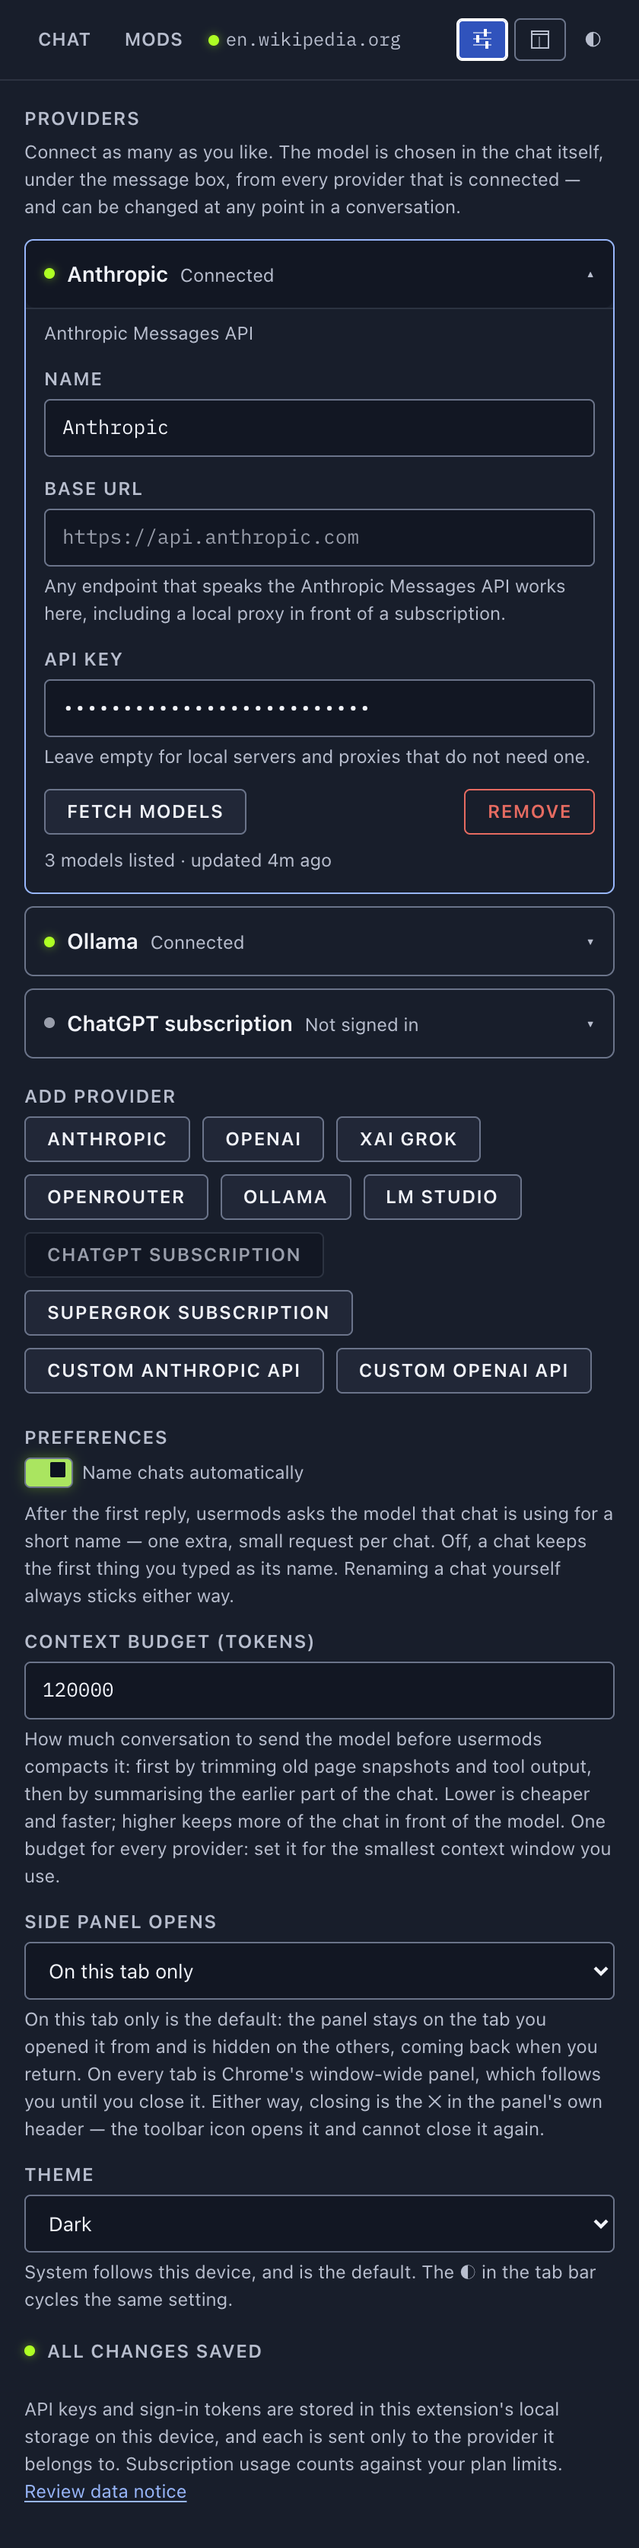
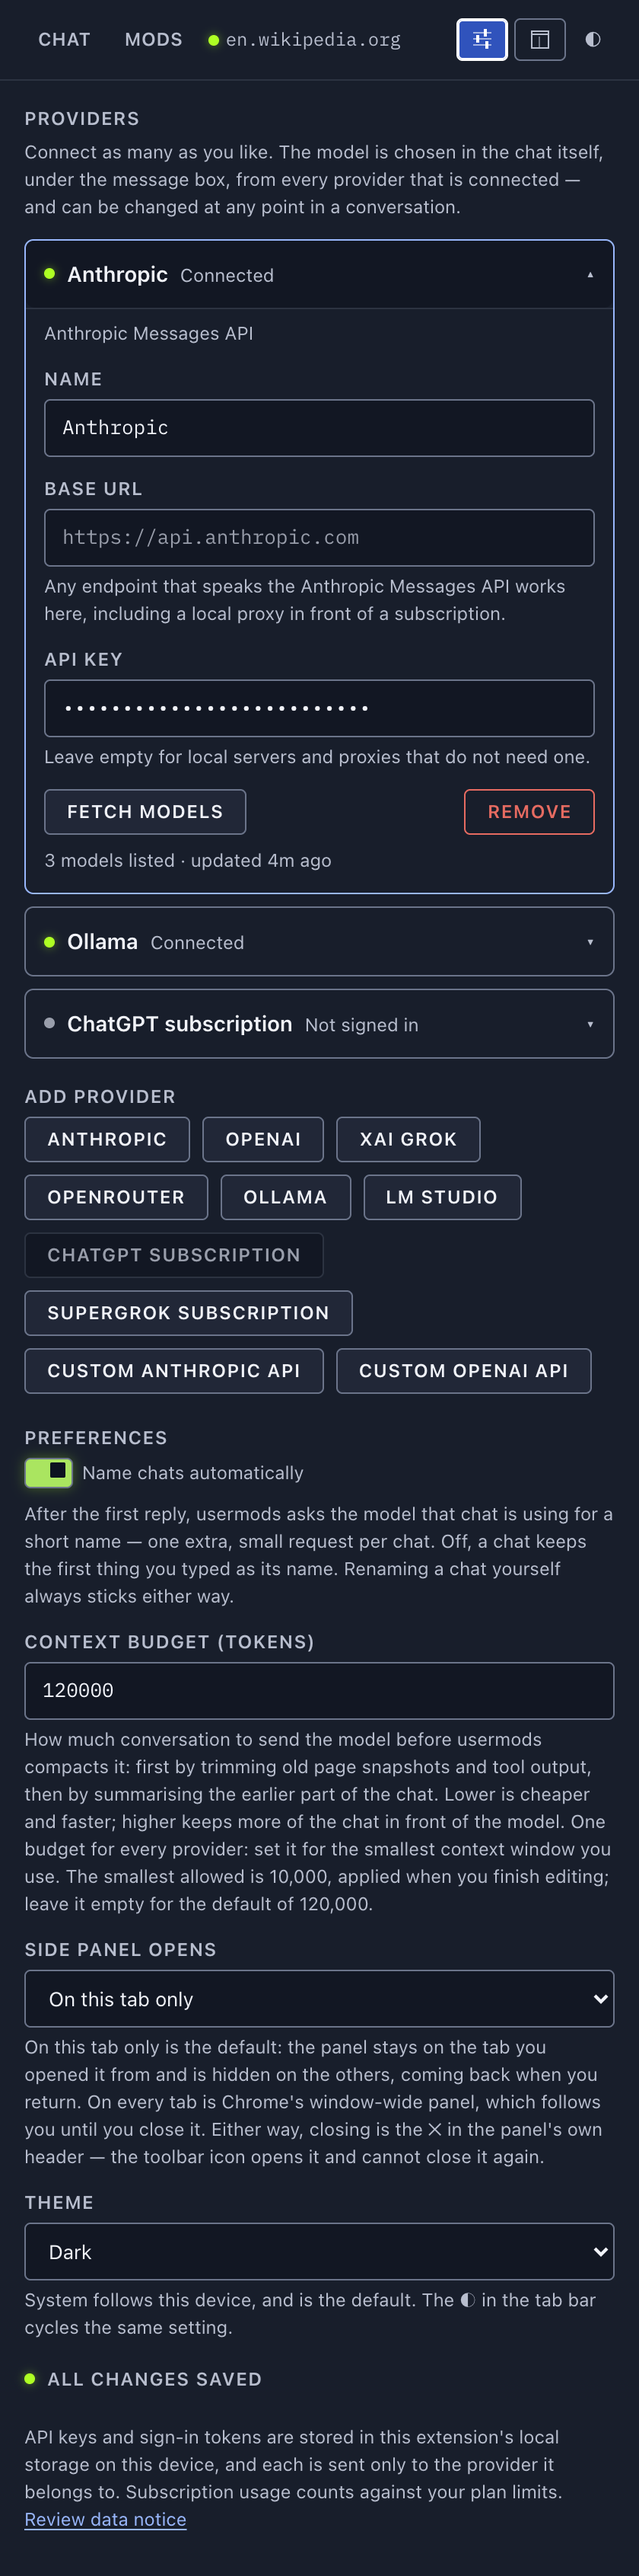
docs: changelog and QA steps for the three user reports
CHANGELOG gains an Unreleased "Fixed, from user reports on the Chrome
build" section covering all three, in the user's own words, and states
that no permission was added and the Chrome manifest is unchanged.

docs/qa-checklist.md gains section 4c: a long session. The mechanisms are
covered by npm test and npm run smoke, but "it breaks in long sessions"
was reported from a real hour in a real profile, which is what this
section is for — deleting a chat mid-run and confirming it stays gone
after a reload and a revisit, typing into the context budget field one
key at a time, a small-window model compacting instead of failing, and
watching getBytesInUse climb ~1.5 MB per attached image toward the 10 MB
cap. Four rows added to the pass/fail table.

The two settings captures are regenerated: that screen's help text now
names the floor and the default. hero-github.png is untouched.

diff --git a/entrypoints/background.ts b/entrypoints/background.ts
@@ -611,10 +611,6 @@ async function runChat(chatId: string, tabId: number, turn: UserTurn | null): Pr
     // going on screen and stopped existing on disk. It still does not fail the turn; it now says so.
     if ((await saveMessages(chatId, messages)) === 'quota') post({ type: 'note', text: QUOTA_PANEL_NOTE });
     await touchChat(chatId, { url, turns: countTurns(messages) });
-    // Blobs whose transcript rows are gone (compaction, an unqueued message, a rollback) were
-    // leaking for the life of the chat: pruneBlobs existed and nothing called it. At ~1.5 MB of a
-    // 10 MB quota per image, that is a large share of why long sessions run out of room.
-    void collectBlobs(chatId, await loadItems(chatId)).catch(() => 0);
     void warnIfStorageLow(post);
     if (outcome.failure) failed = outcome.failure.message;
     succeeded = !signal.aborted && !outcome.failure;
@@ -955,8 +951,24 @@ async function handleRpc(req: RpcRequest): Promise<unknown> {
       return listChats(req.host);
     case 'chats.listAll':
       return listChats();
-    case 'chats.transcript':
-      return loadItems(req.id);
+    case 'chats.transcript': {
+      const items = await loadItems(req.id);
+      // Collect this chat's orphaned blobs here, and ONLY here, because this is the one moment the
+      // stored transcript is authoritative. It cannot be done after a turn: the panel owns
+      // 'chat:<id>:items' and writes it on a 400ms debounce, so a read taken right after a run
+      // finishes does not yet mention the image that run just attached — and collecting against
+      // that stale copy deletes a live blob (the images smoke flow catches exactly this).
+      //
+      // Opening a chat is the right cadence anyway. Nothing is mid-write, an orphan costs only
+      // space until the next open, and the user is not waiting on the result: it is fire-and-forget
+      // while the transcript it was computed from is already on its way back.
+      //
+      // A never-reopened chat keeps its orphans, which is the honest limit of doing it here. Its
+      // keys still go together when the chat is deleted or evicted (chatKeys), so nothing leaks
+      // past the chat's own life.
+      if (items.length) void collectBlobs(req.id, items).catch(() => 0);
+      return items;
+    }
     case 'chats.create':
       return createChat(req.host, req.model);
     case 'chats.setModel':

diff --git a/docs/qa-checklist.md b/docs/qa-checklist.md
@@ -291,6 +291,79 @@ ways — by reading `chrome.sidePanel.getOptions()`. Two things are left to you 
 
 ---
 
+## 4c. A long session: deletion that sticks, storage, and a small context window
+
+Three user reports from the Chrome build land here. Automation covers the mechanisms (`npm test`
+races a delete against a live index write, and drives a provider that refuses an over-long
+history), but it cannot spend a real hour in a real profile against a real backend — which is what
+"it breaks in long sessions" was reported from.
+
+Budget about 25 minutes. Keep the **service worker console** open throughout; it is where a storage
+failure would have gone unseen before.
+
+1. **A delete during a run.** On a busy page, send a request that will take several tool calls
+   ("go through every heading on this page and tell me what each one does"). While it is still
+   running — the activity line ticking — open the chat switcher and **Delete** that chat.
+   **Expected:** the confirm names the chat; it disappears; the panel falls back to another chat or
+   the empty composer. No error in the panel.
+   **Then:** wait ten seconds for the run to finish dying, close and reopen the side panel, and
+   navigate away and back to that site.
+   **Expected:** the chat is still gone. It does not reappear in the switcher, and reopening the
+   panel on that site does not restore it. **This is the bug that was reported** — a deleted chat
+   returning after a reload or a revisit.
+   **If it fails:** service worker console, and in the panel's DevTools run
+   `chrome.storage.local.get('chats').then(r => console.log(r.chats.map(c => c.id + ' ' + c.title)))`
+   — if the chat is listed there, copy that line.
+2. **A delete right after a turn.** Send a short message, wait for the reply to finish, and delete
+   the chat within a second or two of it completing.
+   **Expected:** same as above, and additionally, in the panel's DevTools:
+   `chrome.storage.local.get(null).then(r => console.log(Object.keys(r).filter(k => k.startsWith('chat:'))))`
+   lists no `chat:<that id>:messages`, `:items`, `:blobs` or `:artifact` key.
+   **If it fails:** copy that key list.
+3. **Bulk delete from the dashboard.** Open the dashboard, select several chats, delete them, then
+   reload the dashboard and reopen the panel on one of those sites.
+   **Expected:** all of them stay gone.
+4. **The context budget field.** Settings → **Context budget (tokens)**. Select the whole field and
+   type `50000`, one key at a time, watching the field.
+   **Expected:** it reads `5`, `50`, `500`, `5000`, `50000` as you type. It must **not** jump to
+   `10000` at any point. **This is the bug that was reported.**
+   Then: type `500` and press Tab. **Expected:** it becomes `10000` — the floor, applied once you
+   are done. Type `8000` and press Enter: same. Clear the field entirely and Tab out:
+   **Expected:** `120000`, the default. Type `64000`, and without leaving the field close the side
+   panel and reopen Settings: **Expected:** `64000` was saved.
+   **If it fails:** side panel DevTools.
+5. **A model with a small context window.** Add a connection to a local or hosted model with a small
+   window (anything 8k–32k; a small Ollama or LM Studio model is ideal). Leave the context budget at
+   its 120,000 default. Have a long conversation on a dense page — ten or more turns with several
+   page reads each — until the history is clearly large.
+   **Expected:** when the conversation outgrows that model's window, the turn does **not** fail. A
+   note appears saying the model's context window is smaller than the budget and that usermods
+   compacted and is sending it again, a compaction line appears, and the reply arrives.
+   **Then:** send another message.
+   **Expected:** the second turn does not repeat the failure — the smaller budget was remembered, so
+   it compacts up front rather than being refused first.
+   **If it fails:** service worker console; copy the provider's exact 400 body, which is what the
+   classifier reads.
+6. **Storage.** In the panel's DevTools, check usage at any point with
+   `chrome.storage.local.getBytesInUse(null).then(b => console.log((b/1048576).toFixed(2) + ' MB of 10 MB'))`.
+   Attach four images (the composer's limit) across a few messages in one chat and check again.
+   **Expected:** usage climbs by roughly 1.5 MB per full-size image. This is the headroom problem:
+   the cap is 10 MB.
+   **Then:** keep going until usage passes 8 MB.
+   **Expected:** a note appears once saying storage is N% full and to delete old chats in the
+   dashboard. It appears once, not on every turn.
+   **Then, if you can reach the cap:** keep attaching until a save is actually refused.
+   **Expected:** a note saying the chat is no longer being saved and what to do about it — not
+   silence. Before this fix, the conversation carried on on screen and quietly stopped being
+   written.
+   **If it fails:** service worker console.
+7. **Attached images are cleaned up.** In a chat with attachments, note the blob store's size:
+   `chrome.storage.local.get(null).then(r => { const k = Object.keys(r).find(k => k.endsWith(':blobs')); console.log(k, JSON.stringify(r[k]).length); })`.
+   Delete that chat, then check that no `:blobs` key for it remains.
+   **Expected:** gone with the chat.
+
+---
+
 ## 4b. Edit an installed mod in chat (including an imported one)
 
 The half of this that automation cannot reach is the real user-scripts world: the smoke flow runs in
@@ -825,6 +898,10 @@ OpenAI-compatible endpoint, and a ChatGPT sign-in as the third if you have one.
 | 3a | Lost connection retries, Resume, interrupted run | | |
 | 4 | Chat persistence: reload, restart, second chat | | |
 | 4a | Side panel: this tab only, every tab, dashboard Open | | |
+| 4c | Delete during a run stays deleted after reload and revisit | | |
+| 4c | Context budget field takes every digit; floor applies on blur/Enter | | |
+| 4c | Small context window: one compaction, then remembered | | |
+| 4c | Storage: warning at 80%, a refused save says so, blobs go with the chat | | |
 | 4b | Edit an installed mod in chat (imported, round trip, detach, duplicate) | | |
 | 5 | Install from Greasy Fork `.user.js` link | | |
 | 6 | `@require` + `GM_setValue`/`GM_getValue` sync (2 tabs) | | |

diff --git a/CHANGELOG.md b/CHANGELOG.md
@@ -6,6 +6,44 @@ All notable changes to usermods are recorded here. The format follows
 
 ## [Unreleased]
 
+### Fixed, from user reports on the Chrome build
+
+- **A deleted chat could come back.** Reported as "deleting it does nothing. It shows up again if I
+  reopen the window later or visit the site?" The chat index was written by nine separate
+  read-modify-write cycles over one storage key, none of them serialised. A delete that raced a
+  background turn's activity write, or a proposal being noted on the index, was overwritten by a
+  snapshot taken before the delete — putting the chat back, pointing at per-chat keys the delete had
+  already removed. Separately, the panel's debounced transcript save and the background's
+  detached-run writer could recreate a deleted chat's transcript after the fact. Every index writer
+  now goes through one per-key queue, a delete wins over writes that were already in flight for that
+  chat, and the panel drops its pending writes for a chat it is deleting rather than flushing them.
+  Chat deletion, single and bulk, is the same as before from the outside; it now sticks.
+- **The context budget field fought you while you typed it.** Reported as "You have a minimum default
+  but when I'm editing, it enforces it so it's a bit tricky for me to change the context window
+  limit." Settings applied the 10,000-token floor on every keystroke, so typing `50000` began with
+  `5`, which became `10000` under the cursor. The floor is unchanged and now applies once, when you
+  leave the field or press Enter. Escape abandons what you typed; an empty field asks for the
+  default back; a number typed and then left by closing the panel is still saved. The help text
+  names both the floor and the default.
+- **A model with a small context window no longer ends the run.** Part of "it breaks in long
+  sessions". The context budget is one number for every provider and defaults to 120,000 tokens,
+  while compaction first runs at 70% of it — so a model with a 32k window was refused by its own
+  provider long before anything shrank the conversation, and the turn died. usermods now recognises
+  that refusal (across the phrasings OpenAI, Azure, Anthropic, llama.cpp, Ollama, vLLM, TGI and
+  Gemini-compatible endpoints send), compacts the conversation, sends it once more, says so in the
+  chat, and remembers a budget that fits for that connection and model so the next turn starts from
+  it. Token rate limits and reply-length errors are deliberately not treated this way.
+- **Running out of extension storage is no longer silent.** The other part of "it breaks in long
+  sessions". Chrome caps extension storage at 10 MB, and one full-size attached image costs about
+  1.5 MB of it — so a handful of images across a profile is the whole budget. Every save was
+  fire-and-forget, so a chat that could no longer be written simply stopped being written while the
+  conversation carried on on screen. A refused save now says so in the chat, and a warning appears
+  once at 80% full, while there is still room to act. Attached images whose messages are no longer
+  in the transcript are now actually deleted when the chat is opened — the cleanup existed but had
+  never been wired to anything, so every such image stayed for the life of the chat.
+
+No new permissions: the Chrome manifest is byte-for-byte unchanged.
+
 ### Safari on iPhone and iPad
 
 - **A content-first chat view on iPhone.** From a report on a real phone that the chat could not be
